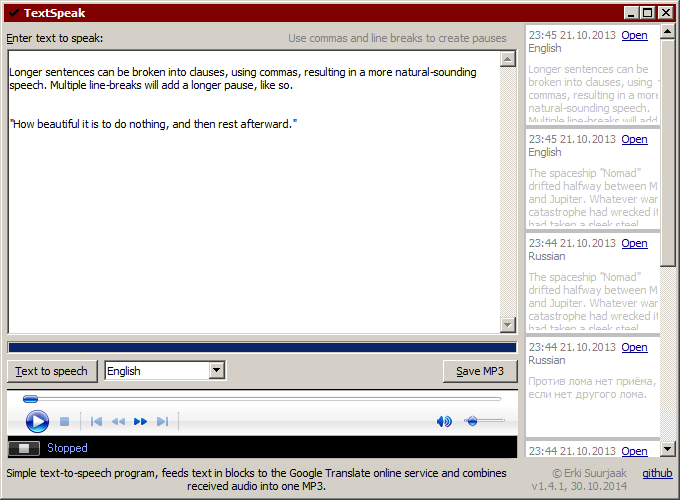
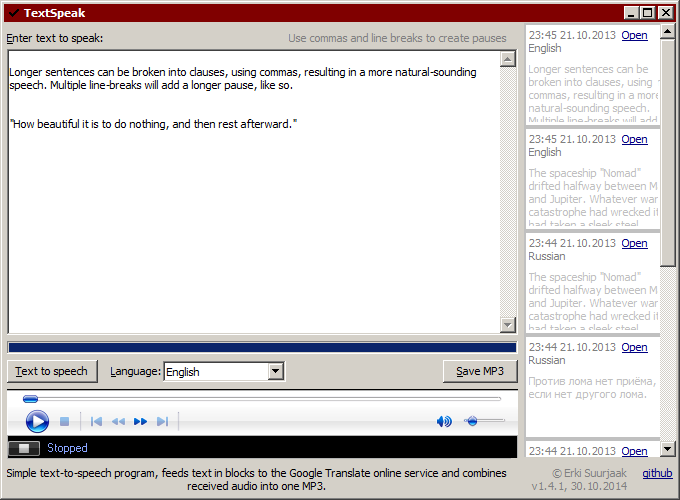
Updated screenshot to v1.4.3.

Changed region(s): [[0.1544, 0.72, 0.4324, 0.78]]

diff --git a/README.md b/README.md
@@ -6,7 +6,7 @@ Since the public Google TTS only supports text up to 100 characters, the text
 is divided into smaller blocks and the resulting MP3 files are merged.
 Tested under Windows 7, Windows Vista and Windows XP.
 
-![Screenshot](https://lh3.googleusercontent.com/-pAUEOKI7yso/VFKjFjA-v-I/AAAAAAAACBc/eTwP5qx_bKs/s680/screenshot.png)
+![Screenshot](https://lh5.googleusercontent.com/-_qc33NldNsc/VSLsuTo9hnI/AAAAAAAACCM/WK364BGJmPA/w680/screenshot.png)
 
 Dependencies
 ------------
